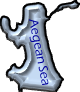
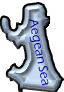
new images are in place

diff --git a/Bitplomacy/src/canvases/GameCanvas.java b/Bitplomacy/src/canvases/GameCanvas.java
@@ -84,10 +84,7 @@ public class GameCanvas extends ECanvas{
 
 	/** The Constant WINNER. */
 	public static final int WINNER = 5;
-	
-	/** The Borders. */
-	private Image Borders;
-		
+			
 	/** SpriteSheets for Units. */
 	private SpriteSheet landUnit;
 	
@@ -124,8 +121,6 @@ public class GameCanvas extends ECanvas{
 		players[5] = new Player("Russia");
 		players[6] = new Player("Germany");
 		
-		Borders=EAnimation.loadImage("/images/Borders.png");
-
 		Image temp = EAnimation.loadImage("/images/LandUnitUpdated.png");
 		landUnit = new SpriteSheet(temp, temp.getWidth()/7, temp.getHeight());
 		temp = EAnimation.loadImage("/images/WaterUnitUpdated.png");
@@ -149,11 +144,11 @@ public class GameCanvas extends ECanvas{
 		while (sc.hasNextLine()){
 			String s = sc.nextLine();
 			String s2[] = s.split("\t");
-			SpriteSheet ss = SSFactory(s2[9]);
+			SpriteSheet ss = SSFactory(s2[6], new Boolean(s2[1].trim()));
 			territories[i] = new Territory(ss, s2[0], new Boolean(s2[1].trim()), 
 					new Boolean(s2[2].trim()), new Boolean(s2[3].trim()));
-			territories[i].setX(new Integer(s2[7]));
-			territories[i].setY(new Integer(s2[8]));
+			territories[i].setX(new Integer(s2[4]));
+			territories[i].setY(new Integer(s2[5]));
 			i++;
 		}
 		sc.close();
@@ -197,11 +192,11 @@ public class GameCanvas extends ECanvas{
 
 		createStartingUnit(getTerritory("Venice"), landUnit, true, players[Territory.ITALY-1]);
 		createStartingUnit(getTerritory("Rome"), landUnit, true, players[Territory.ITALY-1]);
-		createStartingUnit(getTerritory("Naples"), waterUnit, false, players[Territory.ITALY-1]);
+		createStartingUnit(getTerritory("Napoli"), waterUnit, false, players[Territory.ITALY-1]);
 
-		createStartingUnit(getTerritory("St. Petersburgh"), waterUnit, false, players[Territory.RUSSIA-1]);
+		createStartingUnit(getTerritory("St. Petersburg"), waterUnit, false, players[Territory.RUSSIA-1]);
 		createStartingUnit(getTerritory("Moscow"), landUnit, true, players[Territory.RUSSIA-1]);
-		createStartingUnit(getTerritory("Sevastopal"), waterUnit, false, players[Territory.RUSSIA-1]);
+		createStartingUnit(getTerritory("Sevastopol"), waterUnit, false, players[Territory.RUSSIA-1]);
 		createStartingUnit(getTerritory("Warsaw"), landUnit, true, players[Territory.RUSSIA-1]);
 
 		createStartingUnit(getTerritory("Ankara"), waterUnit, false, players[Territory.TURKEY-1]);
@@ -246,11 +241,16 @@ public class GameCanvas extends ECanvas{
 	 * Used to generate a SpriteSheet of a territory.  Assumes that your SpriteSheet has 8 sprites.
 	 * 
 	 * @param location the location
+	 * @param boolean1 
 	 * @return the sprite sheet
 	 */
-	private SpriteSheet SSFactory(String location){
+	private SpriteSheet SSFactory(String location, Boolean isLand){
 		Image temp = EAnimation.loadImage(location);
-		SpriteSheet ss = new SpriteSheet(temp, temp.getWidth()/8, temp.getHeight());
+		SpriteSheet ss;
+		if (isLand)
+			ss = new SpriteSheet(temp, temp.getWidth()/8, temp.getHeight());
+		else
+			ss = new SpriteSheet(temp, temp.getWidth(), temp.getHeight());		
 		return ss;
 	}
 
@@ -260,8 +260,6 @@ public class GameCanvas extends ECanvas{
 	public void eRender(GameContainer gc, EGame eg, Graphics g) {
 		
 		if (state != WINNER) {
-			// draw masterMap for color keys
-			//g.drawImage(MasterMap, 0, 0);
 
 			g.setColor(Color.gray);
 			g.fillRect(1106, 0, 1400 - 1126, gc.getHeight());
@@ -289,7 +287,6 @@ public class GameCanvas extends ECanvas{
 				c.draw();
 			for (Territory t : territories)
 				t.eDraw();
-			g.drawImage(Borders, 0, 0);
 			for (Territory t : territories)
 				t.uDraw();
 
@@ -319,7 +316,8 @@ public class GameCanvas extends ECanvas{
 			int my = Math.abs(Mouse.getY() - 831);
 			
 			for (Territory t : territories) {
-				if (mx >= t.getX() && mx <= t.getWidth()/8 + t.getX()
+				if (mx >= t.getX() && 
+						((t.isLand() && mx <= t.getWidth()/8 + t.getX()) || (!t.isLand() && mx <= t.getWidth() + t.getX()))
 						&& my >= t.getY() && my <= t.getHeight() + t.getY() &&
 						t.isMouseOver(mx, my)){
 					updateTerritory(t);

diff --git a/Bitplomacy/src/gameObjects/Territory.java b/Bitplomacy/src/gameObjects/Territory.java
@@ -235,7 +235,8 @@ public class Territory extends ImageEntity {
 	 */
 	public void setOwner(int owner){
 		this.owner = owner;
-		territoryImage = new EAnimation(ss.getSprite(owner, 0));
+		if (isLand)
+			territoryImage = new EAnimation(ss.getSprite(owner, 0));
 	}
 
 	/**
@@ -263,8 +264,12 @@ public class Territory extends ImageEntity {
 	 * Draws the occupying Unit if there is one.
 	 */
 	public void uDraw(){
-		if (unit != null)
-			unit.draw(this.getX()+(this.getWidth()/16)-16, this.getY()+(this.getHeight()/2)-24);
+		if (unit != null){
+			if (isLand)
+				unit.draw(this.getX()+(this.getWidth()/16)-16, this.getY()+(this.getHeight()/2)-24);
+			else 
+				unit.draw(this.getX()+(this.getWidth()/2)-16, this.getY()+(this.getHeight()/2)-24);
+		}
 	}
 
 	/**
